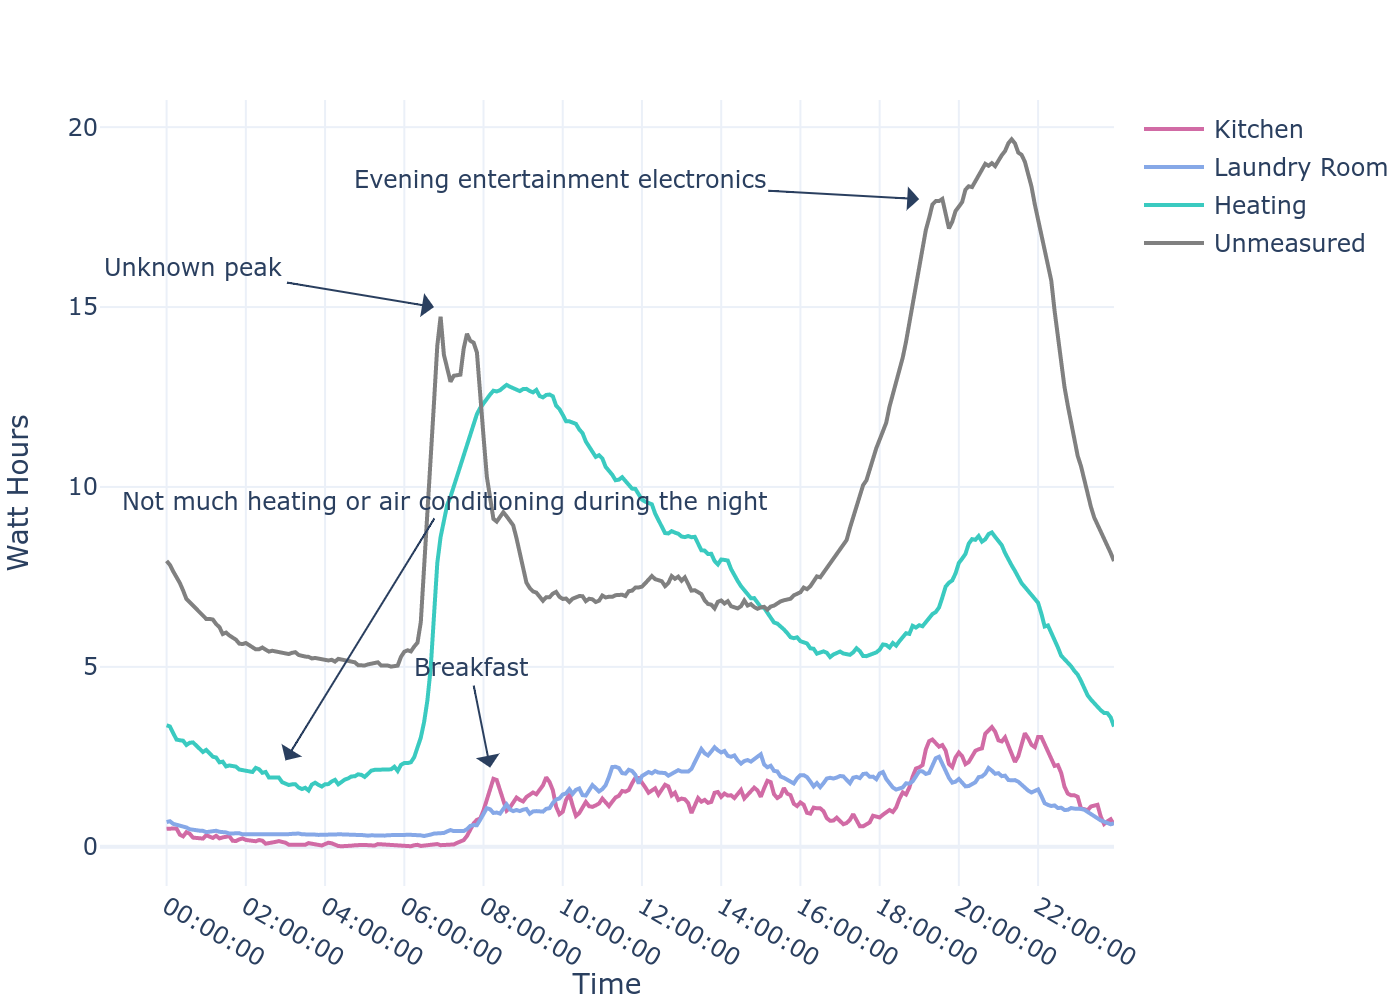
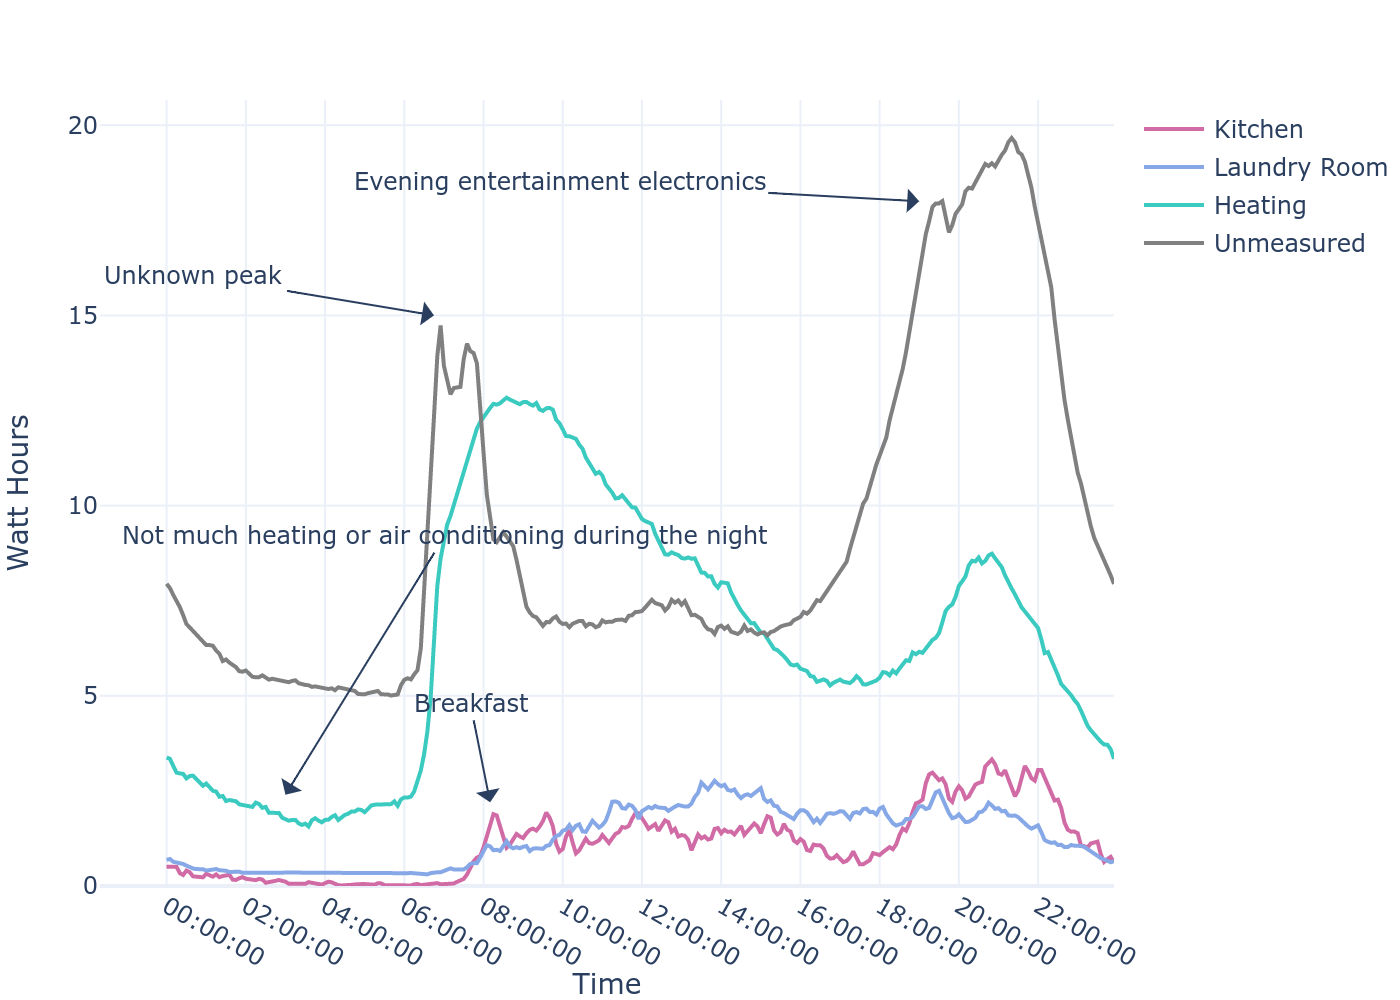
Added proper zerolines

diff --git a/notebooks/use_pattern_exploration.py b/notebooks/use_pattern_exploration.py
@@ -251,7 +251,7 @@ for dataset, xaxis, img_name in zip(datasets, xaxis_list, img_names):
         )
     )
     fig.update_layout(
-        yaxis=dict(zeroline=True),
+        yaxis=dict(zeroline=True, range=[0, max(dataset["Unmeasured"]) + 1]),
         xaxis_title=xaxis,
         yaxis_title="Watt Hours",
         margin=go.layout.Margin(
